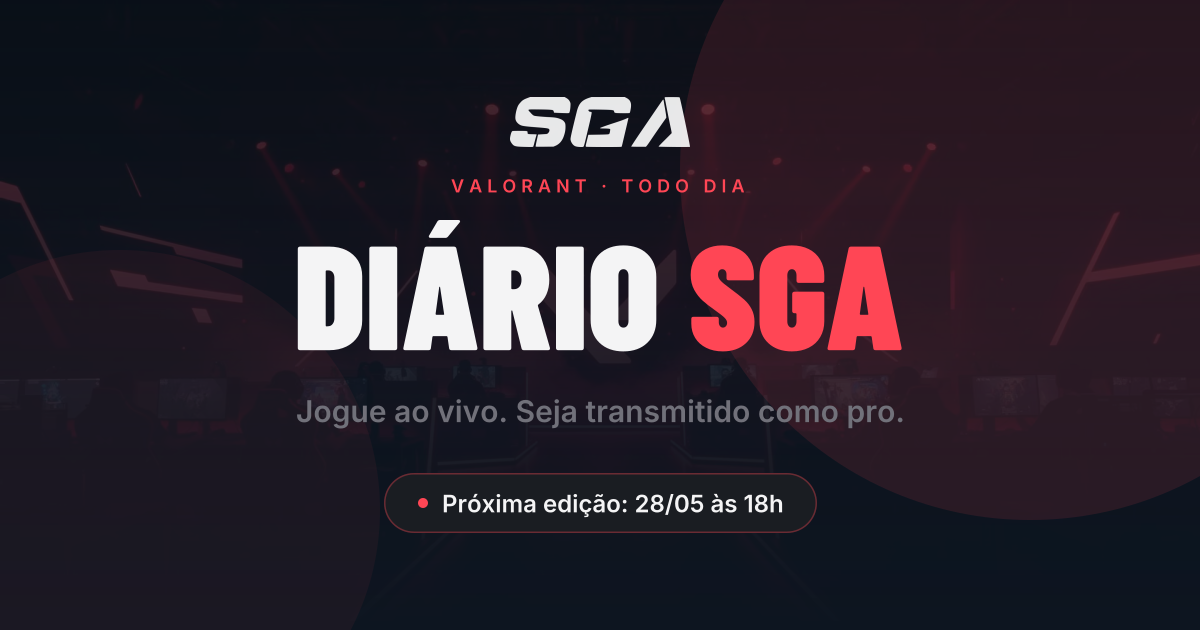
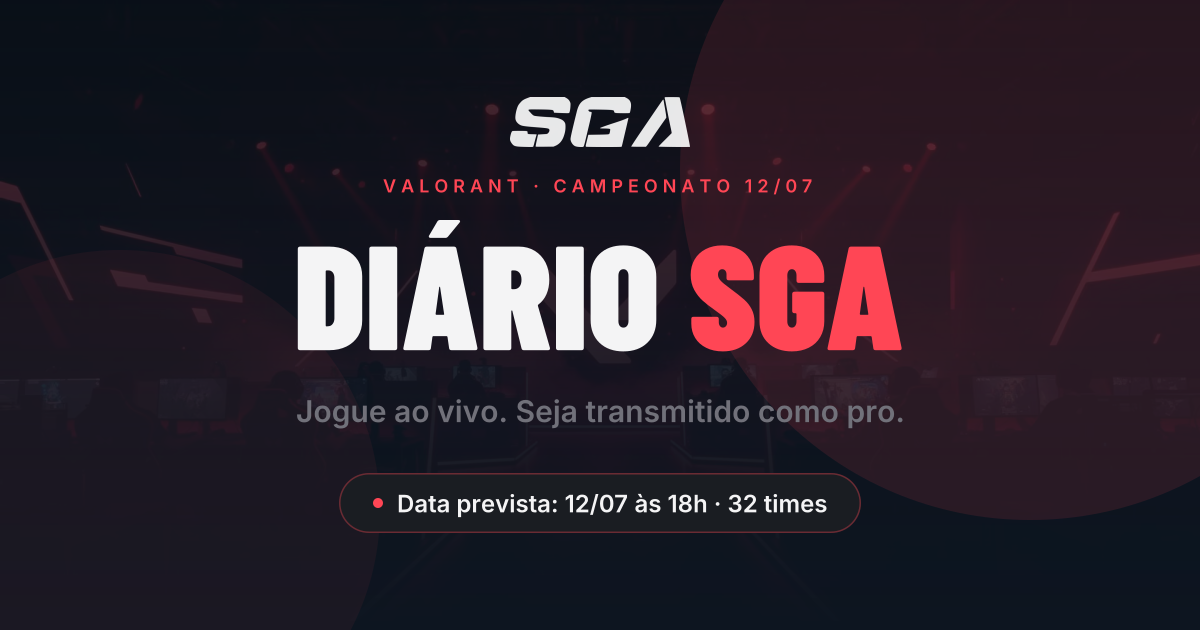
feat: campeonato 32 times, premiacao R$1.000 e inscricao R$39,90
- 32 times, premiacao total R$1.000 (1o R$750 / 2o R$250 / 3o vaga proxima edicao)
- data prevista 12/07, inscricao R$39,90 por time
- ajusta copy (Hero, Prize, CTAFinal, Marquee, Differentials) e meta/OG

Changed region(s): [[0.3083, 0.7841, 0.7092, 0.8444], [0.3083, 0.2714, 0.6783, 0.3317], [0.3083, 0.7238, 0.3392, 0.754]]

diff --git a/src/components/Prize.tsx b/src/components/Prize.tsx
@@ -14,25 +14,25 @@ export function Prize() {
               <span className="text-primary">sem enrolação.</span>
             </>
           }
-          sub="R$5 por jogador. O vencedor leva tudo. O foco é a experiência — o prêmio é bônus."
+          sub={`R$${CONFIG.PREMIACAO_TOTAL.toLocaleString('pt-BR')} em premiação. Inscrição R$${CONFIG.INSCRICAO} por time. O foco é a experiência — o prêmio é bônus.`}
         />
 
         <div className="mt-14 grid md:grid-cols-3 gap-px bg-border">
           <PrizeCard
-            label="Taxa por jogador"
-            value={`R$${CONFIG.TAXA_JOGADOR}`}
-            sub="Cada jogador paga individualmente"
+            label="2º lugar"
+            value={`R$${CONFIG.PREMIO_2}`}
+            sub="Vice-campeão"
           />
           <PrizeCard
-            label="Por time completo"
-            value={`R$${CONFIG.TAXA_JOGADOR * 5}`}
-            sub="5 jogadores · R$5 cada"
+            label="1º lugar"
+            value={`R$${CONFIG.PREMIO_1}`}
+            sub="Time campeão"
             highlight
           />
           <PrizeCard
-            label="Time vencedor"
-            value={`R$${CONFIG.PREMIACAO}`}
-            sub="Prêmio para o time campeão do dia"
+            label="3º lugar"
+            value={CONFIG.PREMIO_3}
+            sub="Garante presença na próxima edição"
           />
         </div>
 
@@ -55,15 +55,17 @@ function PrizeCard({
   sub: string
   highlight?: boolean
 }) {
+  // Valores longos (ex.: "Vaga para o próximo campeonato") usam fonte menor
+  const isLong = value.length > 8
   return (
     <div
-      className={`bracket p-9 text-center ${highlight ? 'bg-primary/[0.07] border border-primary/35' : 'glass'}`}
+      className={`bracket p-9 text-center flex flex-col justify-center ${highlight ? 'bg-primary/[0.07] border border-primary/35' : 'glass'}`}
     >
       <div className="text-display text-xs tracking-[0.2em] text-muted-foreground mb-2">
         {label.toUpperCase()}
       </div>
       <div
-        className={`text-display font-bold text-4xl md:text-5xl leading-none mb-4 ${highlight ? 'text-primary text-glow' : 'text-foreground'}`}
+        className={`text-display font-bold leading-none mb-4 ${isLong ? 'text-2xl md:text-3xl' : 'text-4xl md:text-5xl'} ${highlight ? 'text-primary text-glow' : 'text-foreground'}`}
       >
         {value}
       </div>

diff --git a/src/components/Hero.tsx b/src/components/Hero.tsx
@@ -23,7 +23,7 @@ export function Hero() {
           {/* Pill badge */}
           <div className="inline-flex items-center gap-2 text-display text-xs tracking-[0.2em] text-primary mb-6 border border-primary/40 px-3.5 py-1.5">
             <span className="w-1.5 h-1.5 rounded-full bg-primary animate-pulse-glow" />
-            VALORANT · TODO DIA
+            VALORANT · CAMPEONATO 12/07
           </div>
 
           {/* Title */}
@@ -35,7 +35,7 @@ export function Hero() {
 
           {/* Subtitle */}
           <p className="text-base md:text-lg text-muted-foreground max-w-xl mb-8 leading-relaxed normal-case">
-            Jogue ao vivo, toda noite. Narrador, comentarista e HUD profissional em cada partida — com ou sem time formado.
+Campeonato ao vivo com 32 times. Narrador, comentarista e HUD profissional em cada partida — com ou sem time formado.
           </p>
 
           {/* No-team highlight */}
@@ -59,10 +59,10 @@ export function Hero() {
 
       {/* Stats bar */}
       <div className="relative z-[2] w-full bg-border grid grid-cols-2 md:grid-cols-4 gap-px border-t border-border">
-        <StatItem label="Próxima edição" value={`${CONFIG.PROXIMA_EDICAO} · ${CONFIG.HORARIO}`} sub="dias úteis" />
-        <StatItem label="Taxa" value={`R$${CONFIG.TAXA_JOGADOR}`} sub="por jogador" highlight />
-        <StatItem label="Formato" value={`${CONFIG.TIMES_POR_DIA} times`} sub="MD1 — mata-mata" />
-        <StatItem label="Vagas restantes" value={String(CONFIG.VAGAS_RESTANTES)} sub="vagas limitadas" />
+        <StatItem label="Data prevista" value={`${CONFIG.PREVISAO} · ${CONFIG.HORARIO}`} sub="vagas limitadas" />
+        <StatItem label="Inscrição" value={`R$${CONFIG.INSCRICAO}`} sub="por time" highlight />
+        <StatItem label="Formato" value={`${CONFIG.TIMES} times`} sub="MD1 — mata-mata" />
+        <StatItem label="Premiação" value={`R$${CONFIG.PREMIACAO_TOTAL.toLocaleString('pt-BR')}`} sub={`campeão leva R$${CONFIG.PREMIO_1}`} />
       </div>
     </section>
   )

diff --git a/index.html b/index.html
@@ -4,11 +4,11 @@
     <meta charset="UTF-8" />
     <link rel="icon" type="image/png" href="%BASE_URL%sga-logo.png" />
     <meta name="viewport" content="width=device-width, initial-scale=1.0" />
-    <title>Diário SGA — Valorant ao vivo todo dia</title>
-    <meta name="description" content="Não tem time? A gente te encaixa. Jogue ao vivo com narração, comentarista e transmissão profissional. Todo dia, R$5 por jogador." />
+    <title>Diário SGA — Campeonato de Valorant · 32 times · 12/07</title>
+    <meta name="description" content="Campeonato de Valorant com 32 times e R$1.000 em premiação, dia 12/07. Não tem time? A gente te encaixa. Transmissão ao vivo com narração e HUD profissional. Inscrição R$39,90 por time." />
 
     <!-- Open Graph -->
-    <meta property="og:title" content="Diário SGA — Valorant ao vivo todo dia" />
+    <meta property="og:title" content="Diário SGA — Campeonato de Valorant · 32 times · 12/07" />
     <meta property="og:description" content="Não tem time? A gente te encaixa. Jogue ao vivo com narração, comentarista e transmissão profissional." />
     <meta property="og:image" content="%BASE_URL%og.png" />
     <meta property="og:image:width" content="1200" />
@@ -18,7 +18,7 @@
 
     <!-- Twitter -->
     <meta name="twitter:card" content="summary_large_image" />
-    <meta name="twitter:title" content="Diário SGA — Valorant ao vivo todo dia" />
+    <meta name="twitter:title" content="Diário SGA — Campeonato de Valorant · 32 times · 12/07" />
     <meta name="twitter:description" content="Não tem time? A gente te encaixa. Jogue ao vivo com narração, comentarista e transmissão profissional." />
     <meta name="twitter:image" content="%BASE_URL%og.png" />
 

diff --git a/src/components/CTAFinal.tsx b/src/components/CTAFinal.tsx
@@ -29,9 +29,9 @@ export function CTAFinal() {
           </h2>
 
           <p className="text-lg md:text-xl text-muted-foreground max-w-xl mx-auto mb-6 normal-case">
-            Próxima edição: <strong className="text-foreground">{CONFIG.PROXIMA_EDICAO} às {CONFIG.HORARIO}</strong>
+            Data prevista: <strong className="text-foreground">{CONFIG.PREVISAO} às {CONFIG.HORARIO}</strong>
             {' · '}
-            <strong className="text-primary">restam {CONFIG.VAGAS_RESTANTES} vagas</strong>
+            <strong className="text-primary">{CONFIG.TIMES} times · R${CONFIG.PREMIACAO_TOTAL.toLocaleString('pt-BR')} em prêmios</strong>
           </p>
 
           <div className="flex flex-col sm:flex-row gap-3 justify-center mb-8">
@@ -40,7 +40,7 @@ export function CTAFinal() {
           </div>
 
           <div className="text-mono text-xs tracking-widest text-muted-foreground">
-            R${CONFIG.TAXA_JOGADOR}/JOGADOR · {CONFIG.PROXIMA_EDICAO} · {CONFIG.HORARIO} · MD1
+            R${CONFIG.INSCRICAO}/TIME · {CONFIG.PREVISAO} · {CONFIG.HORARIO} · MD1
           </div>
         </div>
       </section>

diff --git a/src/config.ts b/src/config.ts
@@ -1,11 +1,13 @@
 // ─── EDITAR AQUI ─────────────────────────────────────────────────────────────
 export const CONFIG = {
-  PROXIMA_EDICAO: '28/05',
+  PREVISAO: '12/07',
   HORARIO: '18h',
-  VAGAS_RESTANTES: 8,
-  TIMES_POR_DIA: 8,
-  TAXA_JOGADOR: 5,
-  PREMIACAO: 50,
+  TIMES: 32,
+  INSCRICAO: '39,90', // por time
+  PREMIACAO_TOTAL: 1000,
+  PREMIO_1: 750,
+  PREMIO_2: 250,
+  PREMIO_3: 'Vaga para o próximo campeonato',
   WA_NUMBER: '5516991069776',
   WA_MSG_COM_TIME: 'Quero inscrever meu time no Diário SGA',
   WA_MSG_SEM_TIME: 'Não tenho time, quero que vocês me encaixem no Diário SGA',

diff --git a/scripts/generate-og.tsx b/scripts/generate-og.tsx
@@ -143,7 +143,7 @@ const element = (
           fontWeight: 600,
         }}
       >
-        VALORANT · TODO DIA
+        VALORANT · CAMPEONATO 12/07
       </div>
 
       {/* Title row */}
@@ -223,7 +223,7 @@ const element = (
             fontWeight: 600,
           }}
         >
-          Próxima edição: 28/05 às 18h
+          Data prevista: 12/07 às 18h · 32 times
         </span>
       </div>
     </div>

diff --git a/src/components/Differentials.tsx b/src/components/Differentials.tsx
@@ -28,8 +28,8 @@ const features = [
   },
   {
     n: '06',
-    t: 'Todo dia, todo noite',
-    d: 'Não é um campeonato com data única. Acontece todo dia. Jogue quando puder e volte quando quiser.',
+    t: '32 times no mata-mata',
+    d: 'Chaveamento completo com 32 times em MD1. R$1.000 em premiação e vaga garantida para o campeão da próxima edição.',
   },
 ]
 

diff --git a/src/components/Marquee.tsx b/src/components/Marquee.tsx
@@ -1,10 +1,10 @@
 const items = [
   'Transmissão ao vivo',
   'Narrador e comentarista',
-  'Live profissional todos os dias',
+  'Live profissional',
   'Formação de time gratuita',
   'Ranking e histórico SGA',
-  'R$5 por jogador',
+  '32 times · R$1.000 em prêmios',
   'MD1 — mata-mata',
   'Capa e HUD personalizados',
 ]
